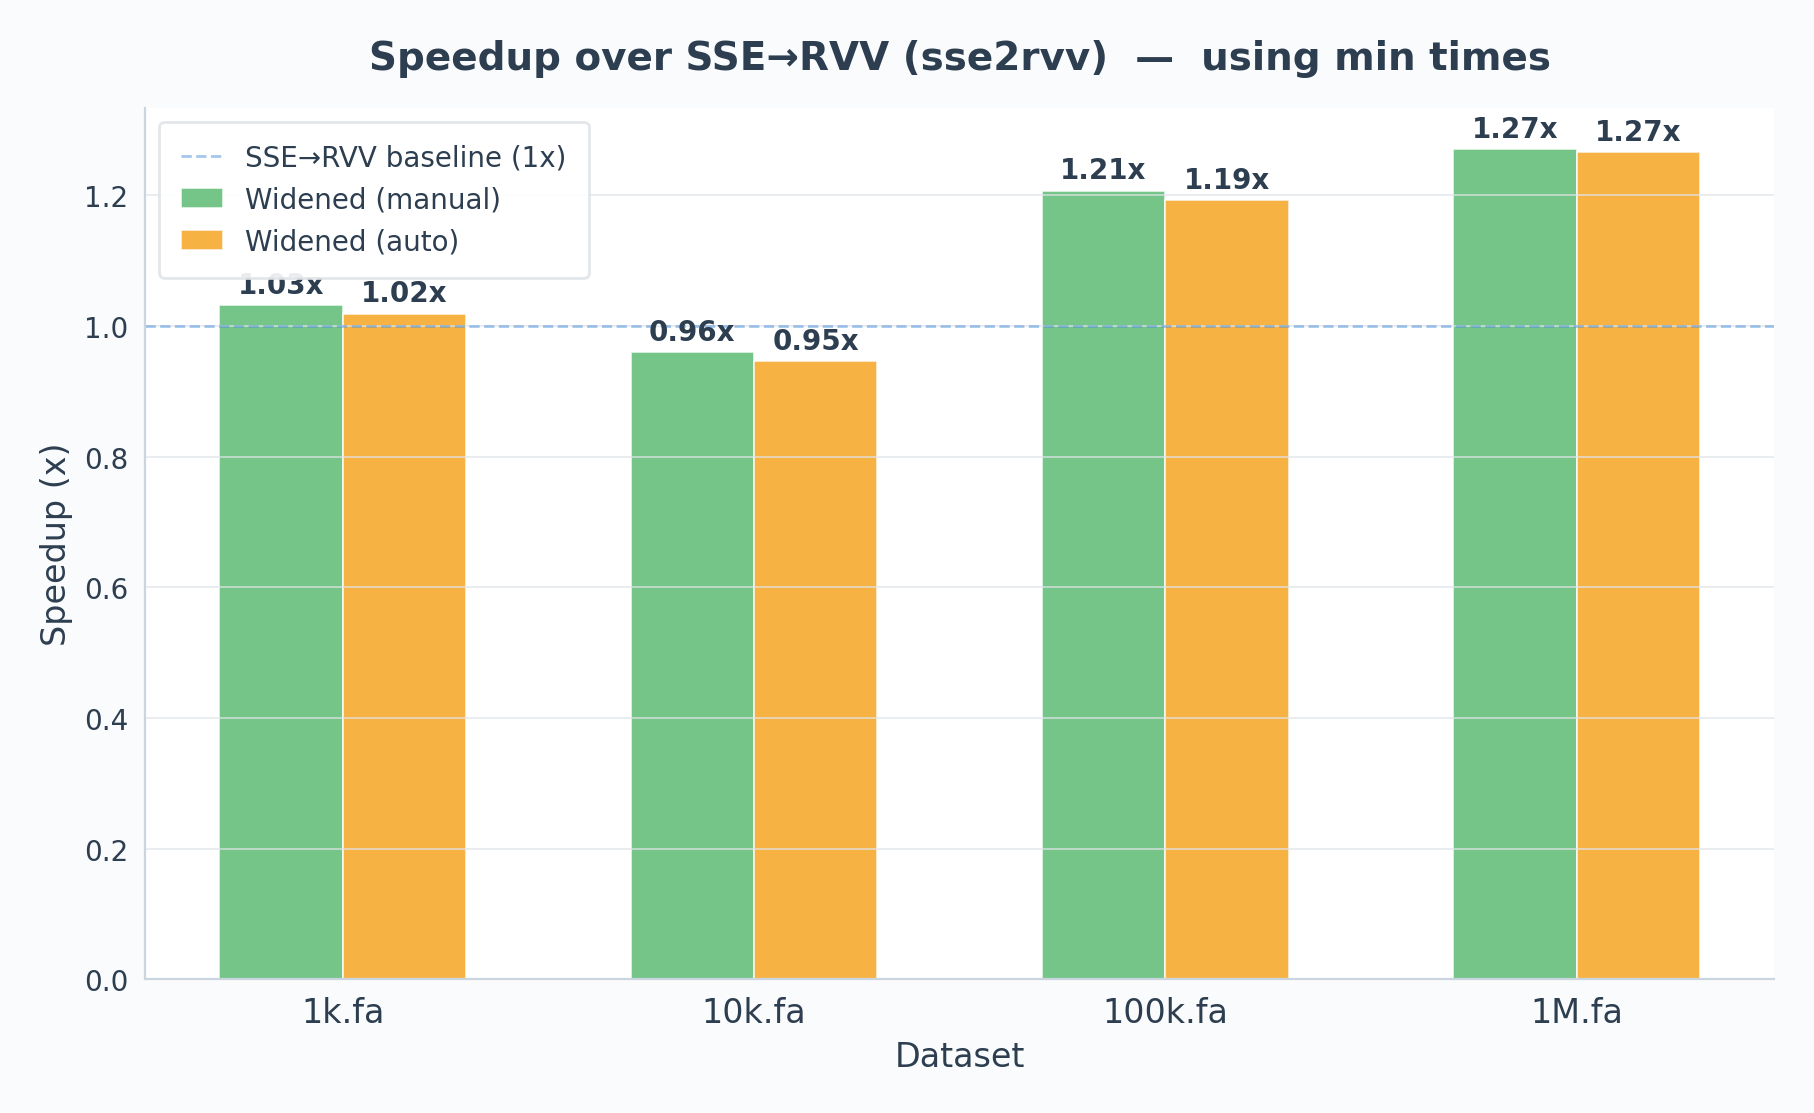
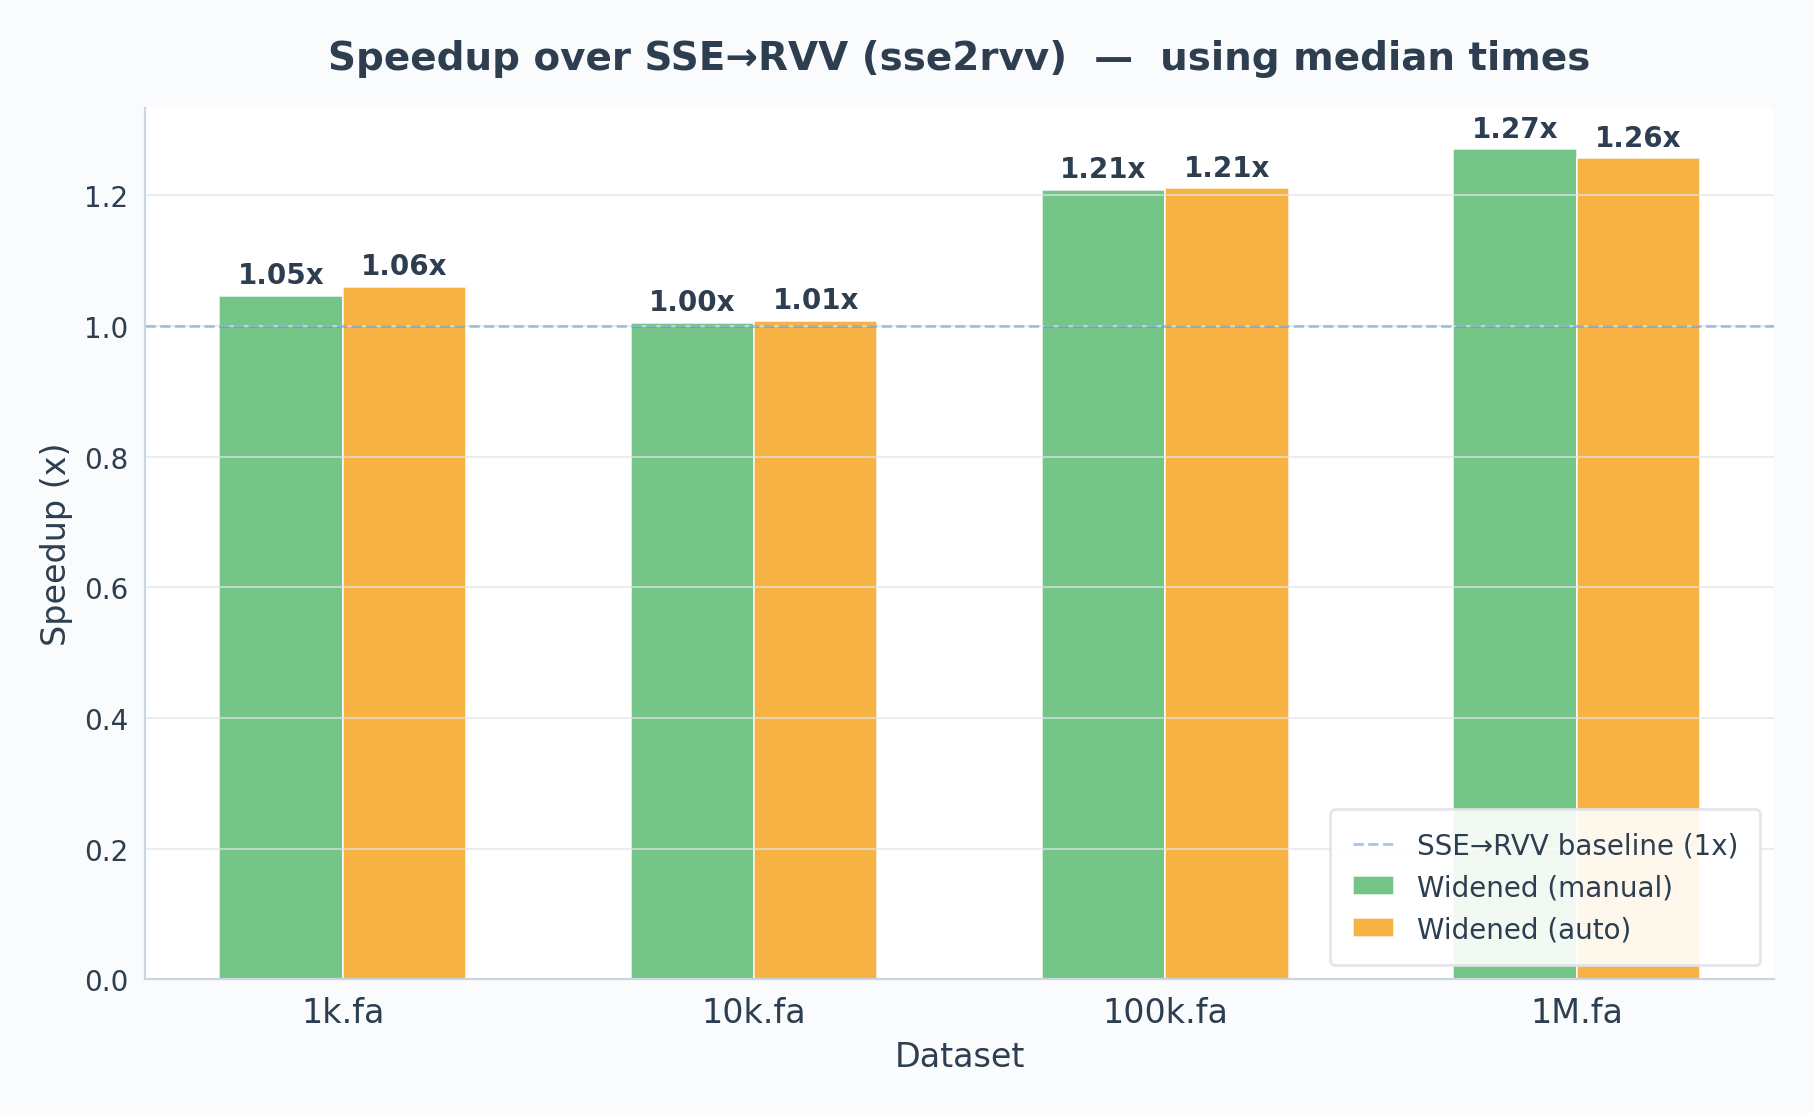
refactor: switch performance metrics from min to median and remove log scale from boxplots

diff --git a/src/graph.py b/src/graph.py
@@ -171,24 +171,13 @@ def boxplot_combined(rows):
 
         _styled_boxplot(ax, data, colors, width=0.55)
 
-        # Log scale with explicit, readable tick values
-        ax.set_yscale("log")
-        ax.yaxis.set_major_formatter(ticker.FuncFormatter(
-            lambda y, _: f"{y:g}"))
-        ax.yaxis.set_minor_formatter(ticker.FuncFormatter(
-            lambda y, _: f"{y:g}"))
-        ax.tick_params(axis="y", which="minor", labelsize=8, labelcolor="#7F8C8D")
-        ax.tick_params(axis="y", which="major", labelsize=10)
-        ax.grid(axis="y", which="minor", color=GRID_COLOR, linewidth=0.4, alpha=0.5)
-        ax.grid(axis="y", which="major", color=GRID_COLOR, linewidth=0.6, alpha=0.8)
-
         # X-tick labels: short variant names
         short_labels = []
         for v in variants:
             if ds in vdata[v]:
                 short_labels.append(VARIANT_LABELS[v])
         ax.set_xticklabels(short_labels, rotation=30, ha="right", fontsize=8.5)
-        ax.set_ylabel("Time (s)  \u2014  log scale")
+        ax.set_ylabel("Time (s)")
         ax.set_title(ds, fontsize=13)
         _strip_spines(ax)
 
@@ -263,7 +252,7 @@ def speedup_vs_naive(rows):
     fig, ax = plt.subplots(figsize=(9, 5.5))
 
     v = "sequence-alignment"
-    speedups = [naive[ds]["min"] / sse[ds]["min"] for ds in datasets]
+    speedups = [naive[ds]["median"] / sse[ds]["median"] for ds in datasets]
     bars = ax.bar(
         x, speedups, width,
         label=VARIANT_LABELS[v], color=PALETTE[v], alpha=0.85,
@@ -282,14 +271,14 @@ def speedup_vs_naive(rows):
     ax.axhline(y=1, color=PALETTE["naive"], linestyle="--", linewidth=1, alpha=0.5,
                label="Naive baseline (1x)")
     ax.legend(loc="upper left")
-    ax.set_title("SSE\u2192RVV Speedup over Naive (scalar)  \u2014  using min times")
+    ax.set_title("SSE\u2192RVV Speedup over Naive (scalar)  \u2014  using median times")
     _strip_spines(ax)
     fig.tight_layout()
     save(fig, "speedup_vs_naive.png")
 
 
 # ---------------------------------------------------------------------------
-# Speedup of widened variants over sequence-alignment (min times)
+# Speedup of widened variants over sequence-alignment (median times)
 # ---------------------------------------------------------------------------
 def speedup_widened_vs_sse(rows):
     sse = get_variant_data(rows, "sequence-alignment")
@@ -306,7 +295,7 @@ def speedup_widened_vs_sse(rows):
     fig, ax = plt.subplots(figsize=(9, 5.5))
 
     for i, v in enumerate(variants):
-        speedups = [sse[ds]["min"] / vdata[v][ds]["min"] for ds in datasets]
+        speedups = [sse[ds]["median"] / vdata[v][ds]["median"] for ds in datasets]
         bars = ax.bar(
             x + i * width - width * (n - 1) / 2, speedups, width,
             label=VARIANT_LABELS[v], color=PALETTE[v], alpha=0.85,
@@ -324,8 +313,8 @@ def speedup_widened_vs_sse(rows):
     ax.set_xlabel("Dataset")
     ax.axhline(y=1, color=PALETTE["sequence-alignment"], linestyle="--",
                linewidth=1, alpha=0.5, label="SSE\u2192RVV baseline (1x)")
-    ax.legend(loc="upper left")
-    ax.set_title("Speedup over SSE\u2192RVV (sse2rvv)  \u2014  using min times")
+    ax.legend(loc="lower right")
+    ax.set_title("Speedup over SSE\u2192RVV (sse2rvv)  \u2014  using median times")
     _strip_spines(ax)
     fig.tight_layout()
     save(fig, "speedup_widened_vs_sse.png")